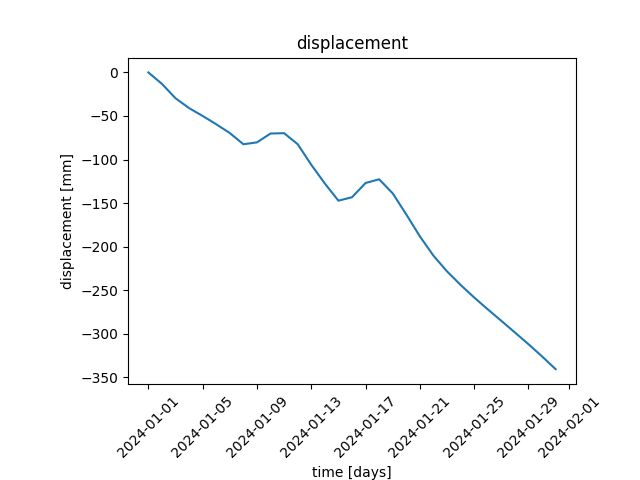
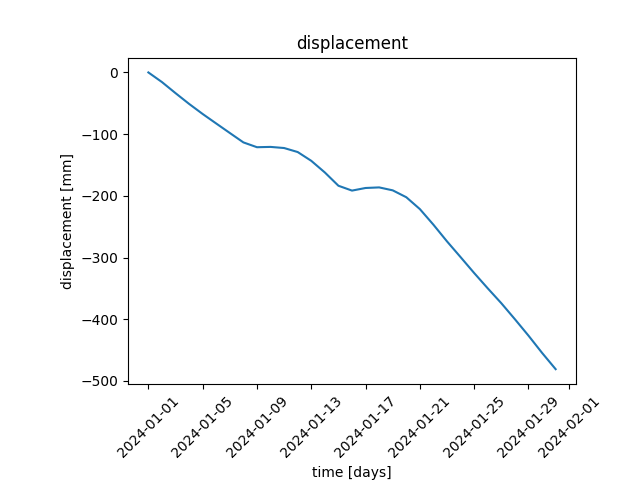
benchmarking

diff --git a/benchmarking/05_shrinkage/data/Input_soil_material_parameters.py b/benchmarking/05_shrinkage/data/Input_soil_material_parameters.py
@@ -6,21 +6,21 @@ Soil_parameters ={
         },
 
         'Compression': {
-        'kappa': 0.13,
-        'lambda': 0.2,
-        'mu': 0.1,
+        'kappa': 0.26,
+        'lambda': 0.42,
+        'mu': 0.05,
         'Tau_ref': 1,
         'OCR': 1.0,
-        'c' : 0,
-        'phi' : 30
+        'c' : 2,
+        'phi' : 10
         },
         
         'Water_retention_curve':{
         'vG_WCS' : 0.735,
         'vG_WCR' : 0.00,
-        'vG_alpha' : 0.011,
-        'vG_n' : 1.23,
-        'vG_m' : (1-1/1.23),
+        'vG_alpha' : 0.05,
+        'vG_n' : 1.15,
+        'vG_m' : (1-1/1.15),
         'vG_a' : 50000,
         'vG_mod' : 1,
         'Ksatfit' : 1.46,
@@ -31,9 +31,9 @@ Soil_parameters ={
         },
         
         'Permeability_curve_Perm':{
-        'K_tot' : 0.005,
+        'K_tot' : 0.001,
         'K_min' : 0.00001,
-        'tau' : 0.5
+        'tau' : 1
         }       
         
         }

diff --git a/src/NSDWLs_equations.py b/src/NSDWLs_equations.py
@@ -261,9 +261,8 @@ def deSSc_dt(Compression_vector, Soil_states, S_e, sigma_eff,sigma_eff_p,dsigma_
     compressibility = Lambda_m- kappa_m
 
     exponent = compressibility / mu_m
-    exponent = np.maximum(exponent, 10.0)
-    sigma_eff_p = np.max(sigma_eff)
-    #dPlastic = mu_m * (1 / Tau_ref) * (1/OCR) ** (exponent)  
+    #exponent = np.maximum(exponent, 5.0)
+    #dPlastic = mu_m * (1 / Tau_ref) * (1/OCR) ** (exponent) 
     dPlastic = mu_m * (1 / Tau_ref) * (sigma_eff/sigma_eff_p) ** (exponent)
     dElastic = dsigma_eff_dt*kappa_m/(ccott+sigma_eff)
     deps_dt = -(dElastic + dPlastic) 
